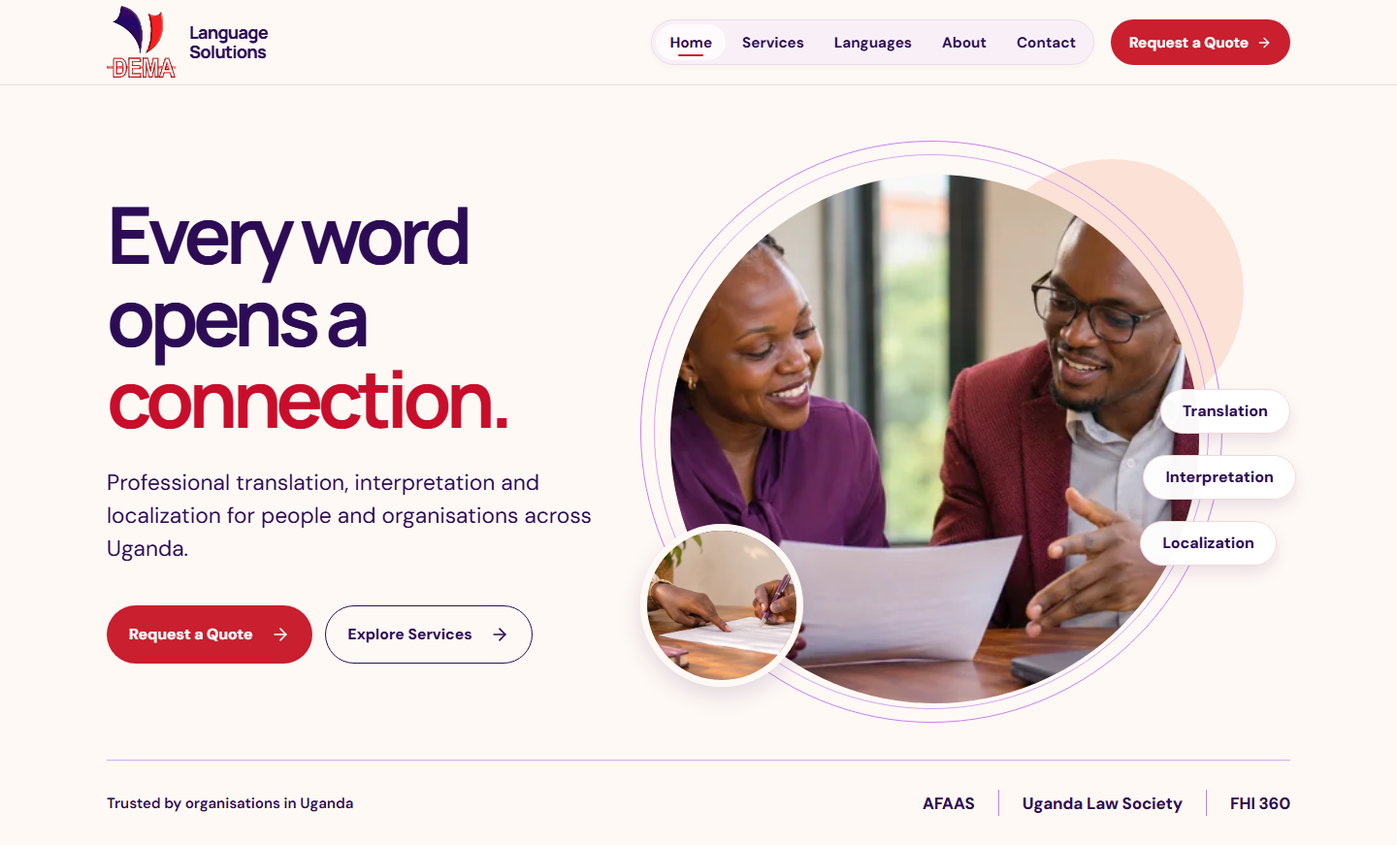
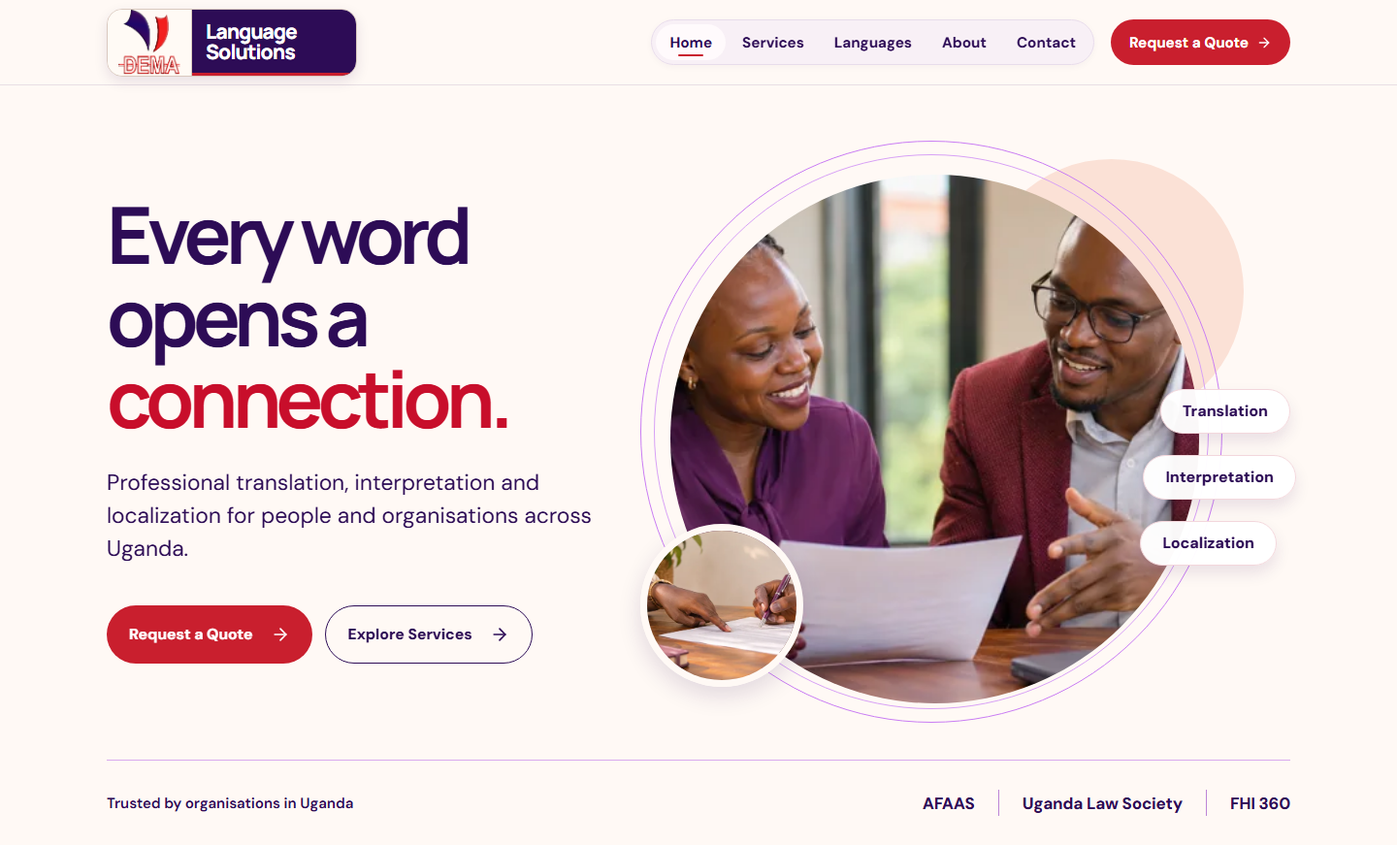
changes

Changed region(s): [[0.0625, 0.0, 0.2812, 0.093], [0.8125, 0.031, 0.875, 0.062]]

diff --git a/src/language-atlas.css b/src/language-atlas.css
@@ -1,0 +1,60 @@
+/* The selected atlas diptych replaces only the introduction above the directory. */
+.language-intro { margin-bottom: 42px; }
+.language-intro .section-intro { max-width: 1080px; margin-bottom: 23px; }
+.language-intro .section-intro h2 { max-width: 1050px; font-size: clamp(3rem, 5vw, 4.3rem); }
+.language-intro .section-intro p { max-width: 800px; font-size: 1.15rem; }
+.language-intro .text-link { min-height: 35px; }
+
+.language-diptych { display: grid; grid-template-columns: minmax(0, .9fr) minmax(0, 1.1fr); align-items: start; gap: 20px; min-width: 0; }
+.atlas-panel { display: grid; grid-template-rows: minmax(0, 1fr) auto; justify-items: center; min-width: 0; height: 520px; padding: 25px 30px 30px; border-radius: 34px; background: radial-gradient(circle at 72% 28%, #462071, var(--brand-violet) 63%); color: #fff; }
+.atlas-map { align-self: center; width: min(80%, 330px); height: 326px; object-fit: contain; filter: brightness(0) invert(1); opacity: .9; }
+.atlas-examples { width: 100%; min-width: 0; }
+.atlas-examples p { margin: 0 0 15px; color: #fff; font-size: .76rem; line-height: 1.35; font-weight: 800; text-transform: uppercase; letter-spacing: .09em; }
+.atlas-examples ul { display: grid; grid-template-columns: repeat(2, minmax(0, 1fr)); gap: 10px 14px; padding: 0; margin: 0; list-style: none; }
+.atlas-examples li { display: grid; place-items: center; min-width: 0; min-height: 43px; padding: 7px 10px; border-radius: 99px; background: linear-gradient(110deg, #f8d9d4, #f4c8c5); color: var(--brand-violet); font-weight: 800; font-size: .93rem; text-align: center; overflow-wrap: anywhere; }
+
+.atlas-photo { min-width: 0; margin: 0; }
+.atlas-photo img { display: block; width: 100%; height: 520px; object-fit: cover; object-position: center 60%; border-radius: 34px 112px 34px 34px; }
+.atlas-photo figcaption { display: flex; justify-content: space-between; align-items: baseline; flex-wrap: wrap; gap: 2px 16px; padding: 13px 2px 0; color: var(--brand-violet); font-size: .8rem; line-height: 1.4; }
+.atlas-photo figcaption strong { font-weight: 800; }
+.atlas-photo figcaption a { text-decoration: underline; text-underline-offset: 3px; }
+.atlas-photo figcaption a:hover, .atlas-photo figcaption a:focus-visible { color: var(--action-red); }
+.languages-section .directory { margin-top: 82px; }
+
+@media (max-width: 1050px) {
+  .atlas-panel { height: 470px; padding: 22px 24px 24px; }
+  .atlas-map { height: 285px; }
+  .atlas-photo img { height: 470px; }
+}
+@media (max-width: 780px) {
+  .language-intro { margin-bottom: 30px; }
+  .language-intro .section-intro h2 { font-size: clamp(2.55rem, 6vw, 3.4rem); }
+  .language-diptych { grid-template-columns: minmax(0, 1fr); gap: 22px; }
+  .atlas-panel { height: auto; min-height: 410px; padding: 22px 28px 28px; }
+  .atlas-map { width: min(68%, 310px); height: 275px; }
+  .atlas-photo img { height: clamp(290px, 50vw, 390px); border-radius: 28px 85px 28px 28px; }
+  .languages-section .directory { margin-top: 72px; }
+}
+@media (max-width: 550px) {
+  .language-intro { margin-bottom: 27px; }
+  .language-intro .section-intro { margin-bottom: 17px; }
+  .language-intro .section-intro h2 { font-size: clamp(2rem, 8.6vw, 3rem); }
+  .language-intro .section-intro p { font-size: .98rem; }
+  .language-diptych { gap: 17px; }
+  .atlas-panel { min-height: 0; padding: 19px 21px 22px; border-radius: 22px; }
+  .atlas-map { width: min(75%, 235px); height: 225px; margin-bottom: 8px; }
+  .atlas-examples p { font-size: .67rem; margin-bottom: 10px; }
+  .atlas-examples ul { gap: 8px; }
+  .atlas-examples li { min-height: 38px; font-size: .82rem; }
+  .atlas-photo img { height: clamp(210px, 57vw, 290px); border-radius: 22px 62px 22px 22px; }
+  .atlas-photo figcaption { font-size: .72rem; padding-top: 9px; }
+  .languages-section .directory { margin-top: 56px; }
+}
+@media (max-width: 360px) {
+  .atlas-panel { padding: 17px 16px 18px; }
+  .atlas-map { height: 190px; }
+  .atlas-examples li { min-height: 35px; font-size: .75rem; padding-inline: 5px; }
+  .atlas-photo img { height: 210px; }
+  .atlas-photo figcaption { font-size: .68rem; }
+  .languages-section .directory { margin-top: 48px; }
+}

diff --git a/src/App.tsx b/src/App.tsx
@@ -82,7 +82,26 @@ function ServiceFinder({ choice, setChoice }: { choice: Choice; setChoice: (choi
 }
 
 function LanguagesSection() {
-  return <section id="languages" className="section languages-section"><div className="container"><div className="split-grid"><div className="split-copy"><SectionIntro eyebrow="Language expertise" title="Rooted in Uganda. Connected through language." copy="Local language knowledge and cultural context help make communication more meaningful. Tell us who you need to reach and we’ll discuss the right approach." /><p className="examples-label">Examples of languages featured by Dema</p><div className="language-tags"><span>Luganda</span><span>Runyankore</span><span>Acholi</span><span>Lusoga</span></div><a className="text-link" href="#contact">Ask about your language <ArrowRight size={18} /></a></div><div className="language-visual"><figure className="language-photo"><Picture name="kampala" alt="Panoramic view across Kampala, Uganda" /><figcaption><span>Kampala, Uganda</span><span>Photo: <a href="https://commons.wikimedia.org/wiki/File:View_of_Kampala_city_1.jpg" target="_blank" rel="noopener noreferrer">Dr. S-mon</a> · <a href="https://creativecommons.org/licenses/by/4.0/" target="_blank" rel="noopener noreferrer">CC BY 4.0</a></span></figcaption></figure><div className="uganda-map"><img src="/assets/uganda-outline.svg" alt="Outline map of Uganda" width="320" height="360" /><span>Rooted in Uganda</span></div></div></div><LanguageDirectory /></div></section>
+  return <section id="languages" className="section languages-section"><div className="container">
+    <div className="language-intro">
+      <SectionIntro eyebrow="Language expertise" title="Rooted in Uganda. Connected through language." copy="Local language knowledge and cultural context help make communication more meaningful. Tell us who you need to reach and we’ll discuss the right approach." />
+      <a className="text-link" href="#contact">Ask about your language <ArrowRight size={18} /></a>
+    </div>
+    <div className="language-diptych">
+      <div className="atlas-panel">
+        <img className="atlas-map" src="/assets/uganda-outline.svg" alt="Geographic silhouette of Uganda" width="320" height="360" loading="lazy" />
+        <div className="atlas-examples">
+          <p>Examples of languages featured by Dema</p>
+          <ul>{['Luganda', 'Runyankore', 'Acholi', 'Lusoga'].map(language => <li key={language}>{language}</li>)}</ul>
+        </div>
+      </div>
+      <figure className="atlas-photo">
+        <Picture name="kampala" alt="Panoramic view across Kampala, Uganda" />
+        <figcaption><strong>Kampala, Uganda</strong><span>Photo: <a href="https://commons.wikimedia.org/wiki/File:View_of_Kampala_city_1.jpg" target="_blank" rel="noopener noreferrer">Dr. S-mon</a> · <a href="https://creativecommons.org/licenses/by/4.0/" target="_blank" rel="noopener noreferrer">CC BY 4.0</a></span></figcaption>
+      </figure>
+    </div>
+    <LanguageDirectory />
+  </div></section>
 }
 
 function Approach() {

diff --git a/src/header-contrast-tab.css b/src/header-contrast-tab.css
@@ -1,0 +1,88 @@
+/* The contrast tab belongs to the header brand only. Footer Brand stays plain. */
+.site-header .brand-header {
+  display: inline-flex;
+  align-items: stretch;
+  flex: none;
+  gap: 0;
+  width: 258px;
+  height: 70px;
+  border: 1px solid #d9c9bf;
+  border-radius: 16px;
+  background: #fffaf5;
+  box-shadow: 0 3px 10px #2d0c560b;
+  overflow: hidden;
+  white-space: nowrap;
+  transition: box-shadow .18s ease;
+}
+.site-header .brand-header:hover { box-shadow: 0 5px 14px #2d0c561c; }
+.site-header .brand-header:focus-visible { outline: 3px solid #ec6c5b; outline-offset: 3px; }
+.site-header .brand-mark {
+  display: grid;
+  place-items: center;
+  flex: none;
+  width: 87px;
+  min-width: 0;
+  height: 100%;
+  background: #fffaf5;
+  border-right: 1px solid #d9c9bf;
+}
+.site-header .brand-mark img {
+  display: block;
+  width: 78px;
+  height: 67px;
+  max-width: none;
+  object-fit: contain;
+}
+.site-header .brand-wordmark {
+  display: block;
+  position: relative;
+  flex: 1;
+  min-width: 0;
+  height: 100%;
+  padding: 12px 14px 10px;
+  border-radius: 0 14px 14px 0;
+  background: var(--brand-violet);
+  color: #fff;
+  font-family: Manrope, 'DM Sans', sans-serif;
+  font-size: 1.31rem;
+  font-weight: 800;
+  line-height: 1.04;
+  letter-spacing: -.045em;
+}
+.site-header .brand-wordmark::after {
+  content: '';
+  position: absolute;
+  left: 0;
+  right: 0;
+  bottom: 0;
+  height: 3px;
+  background: var(--action-red);
+}
+@media (max-width: 1100px) {
+  .site-header .brand-header { width: 244px; height: 68px; }
+  .site-header .brand-mark { width: 82px; }
+  .site-header .brand-mark img { width: 73px; height: 65px; }
+  .site-header .brand-wordmark { font-size: 1.24rem; padding: 12px 12px 9px; }
+}
+@media (max-width: 780px) {
+  .site-header .brand-header { width: 198px; height: 59px; border-radius: 13px; }
+  .site-header .brand-mark { width: 72px; }
+  .site-header .brand-mark img { width: 65px; height: 57px; }
+  .site-header .brand-wordmark { padding: 11px 10px 8px; border-radius: 0 11px 11px 0; font-size: 1rem; line-height: 1.04; }
+  .site-header .brand-wordmark::after { height: 2px; }
+}
+@media (max-width: 360px) {
+  .site-header .brand-header { width: 181px; height: 56px; }
+  .site-header .brand-mark { width: 67px; }
+  .site-header .brand-mark img { width: 60px; height: 54px; }
+  .site-header .brand-wordmark { padding: 11px 8px 7px; font-size: .91rem; }
+}
+@media (max-width: 300px) {
+  .site-header .brand-header { width: 169px; height: 54px; }
+  .site-header .brand-mark { width: 62px; }
+  .site-header .brand-mark img { width: 56px; height: 52px; }
+  .site-header .brand-wordmark { padding: 10px 7px 7px; font-size: .86rem; }
+}
+@media (prefers-reduced-motion: reduce) {
+  .site-header .brand-header { transition: none; }
+}

diff --git a/src/main.tsx b/src/main.tsx
@@ -13,6 +13,8 @@ import './polish.css'
 import './conversation-lens.css'
 import './services-photo-led.css'
 import './finder-decision-path.css'
+import './header-contrast-tab.css'
+import './language-atlas.css'
 
 ReactDOM.createRoot(document.getElementById('root')!).render(
   <React.StrictMode><App /></React.StrictMode>,

diff --git a/AGENTS.md b/AGENTS.md
@@ -24,8 +24,10 @@ The agent has access to the following local references. **Use the images for com
 
 1. **Active hero direction:** `plan/hero-iteration/options/02-conversation-lens.png` is the selected desktop/mobile hero design. The supplied `images/logo.png` and existing site photos are authoritative assets; the generated logo and people inside the mockup are visual placeholders. `plan/brand-hero-violet-red.png` remains a secondary palette reference.
 2. **Active service finder direction:** `plan/finder-iteration/options/03-decision-path.png` is the selected desktop/mobile design for `#find-service`. It supersedes the earlier `plan/section-concepts/03-service-finder.png` composition. Recreate its choices, result panel, and graphic accents as real React/CSS; do not paste the mockup into the page.
-3. **Active header logo-area direction:** `plan/logo-iteration/options/03-contrast-tab.png` is the selected desktop/mobile brand lockup. Follow section 15. The actual `images/logo.png` is authoritative; any logo rendition inside the generated mockup is illustrative only.
-4. **Layout and section composition:** the eight images in `plan/section-concepts/`, in numeric order. Each shows desktop on the left and mobile on the right:
+3. **Active header logo-area direction:** the logo treatment shown in `plan/directory-iteration/options/02-editorial-cards.png` replaces the earlier `plan/logo-iteration/options/03-contrast-tab.png`. Follow section 17. The actual `images/logo.png` is authoritative; any logo rendition inside the generated mockup is illustrative only.
+4. **Active Language expertise direction:** `plan/language-iteration/options/02-atlas-diptych.png` is the selected desktop/mobile layout for the introductory part of `#languages`. Follow section 16. It supersedes the earlier `plan/section-concepts/04-languages.png` composition for that part of the section.
+5. **Active searchable directory direction:** `plan/directory-iteration/options/02-editorial-cards.png` is the selected desktop/mobile layout for `#language-directory`. Follow section 17. It supersedes `plan/section-concepts/04b-language-directory.png` for composition while preserving the existing data and behavior.
+6. **Layout and section composition:** the eight images in `plan/section-concepts/`, in numeric order. Each shows desktop on the left and mobile on the right:
    - `01-hero.png`
    - `02-services.png`
    - `03-service-finder.png`
@@ -35,8 +37,8 @@ The agent has access to the following local references. **Use the images for com
    - `07-clients.png`
    - `08-contact-footer-v2.png` (use this corrected version)
    - `04b-language-directory.png` is an additional reference for the new searchable district–language directory within section 04. It uses the correct violet/red palette and shows the required desktop/mobile search layout.
-5. **Real brand and team assets:** `images/logo.png` and the three supplied photos listed below. These override any invented logos, faces, names, or contact details visible in generated mockups.
-6. **Generated supporting photography:** `images/generated/`. These are illustrative models/scenes and must never be presented as Dema staff or a documentary record of Dema projects.
+7. **Real brand and team assets:** `images/logo.png` and the three supplied photos listed below. These override any invented logos, faces, names, or contact details visible in generated mockups.
+8. **Generated supporting photography:** `images/generated/`. These are illustrative models/scenes and must never be presented as Dema staff or a documentary record of Dema projects.
 
 The older green/yellow section images specify layout, spacing, typography scale, and responsive composition. **Do not carry their green/yellow palette into the build.** Use the violet/red logo based palette below throughout all sections. Treat the references as visual targets: match their major proportions, image placement, section density, card size, type hierarchy, colour blocking, and desktop/mobile composition. Reuse the ideas as real responsive components, with changes only for factual accuracy, accessibility, and the supplied assets. Merely repeating the section order and text does not satisfy the brief.
 
@@ -86,7 +88,7 @@ Build in this order. The quoted copy is the working content; adjust minor wordin
 
 ### 01 — Header and hero (`#top`)
 
-- Header: supplied logo plus “Language Solutions” live text if needed; anchors Home, Services, Languages, About, Contact. On mobile use a compact accessible menu. Use a subtle sticky header only if it does not cover anchored headings. Sections 12 and 15 give the approved navbar and logo-area directions; section 15 controls the header brand lockup.
+- Header: supplied logo plus “Language Solutions” live text if needed; anchors Home, Services, Languages, About, Contact. On mobile use a compact accessible menu. Use a subtle sticky header only if it does not cover anchored headings. Section 17 controls the header brand lockup and bottom-edge treatment; preserve the other approved navbar behavior.
 - H1: **Every word opens a connection.**
 - Subcopy: **Professional translation, interpretation and localization for people and organisations across Uganda.**
 - Primary action: **Request a Quote** → `#contact`.
@@ -112,9 +114,9 @@ Build in this order. The quoted copy is the working content; adjust minor wordin
 
 - Heading **Rooted in Uganda. Connected through language.**
 - Explain Dema's local language knowledge in one short paragraph. Display example language names from its current site, such as Luganda, Runyankore, Acholi, and Lusoga. Phrase these as examples, not an exhaustive coverage claim.
-- Restore the **Kampala city photograph and Uganda map silhouette** from the composition in `plan/section-concepts/04-languages.png`, translated into the current violet/red palette. These are required visual anchors for this section, not optional decorations. Use a genuine, appropriately licensed Kampala photograph so the city depiction is accurate; if its source or licence is unclear, confirm it before production use. Build the Uganda outline from a reliable map source as a code native SVG or equivalent, with accurate proportions. Do not add decorative pins, district boundaries, or language-to-district placements that imply unverified coverage. `interpretation-meeting.png` may be used as secondary context if it improves the composition, but it does not replace the city photograph or map. Keep the photo and map legible on mobile without causing horizontal overflow.
+- Use the approved **Atlas diptych** composition in `plan/language-iteration/options/02-atlas-diptych.png` for the introductory visual: a deep violet Uganda map panel paired with a genuine Kampala photograph on desktop, stacked on mobile. The real `images/kampala-city-source.jpg` / optimized WebP variants and `public/assets/uganda-outline.svg` are authoritative; the generated photo and map inside the concept board are visual placeholders. Keep the visible Kampala photo attribution and licence link. Do not add decorative pins, district boundaries, or language-to-district placements that imply unverified coverage. Keep the photo and map legible on mobile without horizontal overflow. Section 16 gives precise requirements.
 - **Ask about your language** links to contact.
-- Add a searchable directory **within this homepage section** using `data/dema-district-languages.json`, with `plan/section-concepts/04b-language-directory.png` as the visual target. The data file transcribes all 93 numbered district/place entries and their 42 distinct language labels from Dema's current homepage. Do not reduce the directory to the four example chips above.
+- Add a searchable directory **within this homepage section** using `data/dema-district-languages.json`, with the selected `plan/directory-iteration/options/02-editorial-cards.png` as the visual target. The data file transcribes all 93 numbered district/place entries and their 42 distinct language labels from Dema's current homepage. Do not reduce the directory to the four example chips above. Section 17 governs the directory layout.
 - Search must work in both directions: a district/place query reveals its languages, and a language query reveals every matching district/place in the dataset. Provide visible controls for All, Districts / places, and Languages; show a result count, a clear-query control, an empty state, and an accessible way to browse **every** record (for example progressive “Show more” rows). Do not silently cap results.
 - Matching should be case-insensitive and accent/punctuation tolerant so queries such as `Pokot`, `Pökoot`, `Ma'di`, and `Ngakarimojong` can find the published spellings. Preserve the published display spelling in results. Build the reverse language-to-places index from the dataset rather than maintaining a second inconsistent list.
 - Use the neutral label **district / place** because the source list contains place labels that are not current administrative districts. A short note should say the directory is based on Dema's published list and visitors can contact Dema to confirm local requirements. Do not describe it as a complete official Uganda district register or as proof of service availability in every listed place.
@@ -172,7 +174,7 @@ The initial implementation has QA captures in `qa/home-1440.png`, `qa/home-1024.
 2. **Mobile hero:** Follow the desktop/mobile pairing in `plan/hero-iteration/options/02-conversation-lens.png` and the acceptance criteria in section 12.
 3. **Services:** Historical review of the initial generic card layout. The selected photo-led direction in section 13 now controls this section.
 4. **Service finder:** Historical review of the initial icon-card selector. The selected decision-path direction in section 14 now controls this section. Keep the working selector and readable type.
-5. **Language and approach:** The current language section is mostly text plus a circular crop. Match the more deliberate text/image balance in `04-languages.png` without inventing geographic data. The current approach is a plain vertical list even on desktop; `05-process.png` shows a connected horizontal three-step story on desktop and a vertical path on mobile.
+5. **Language and approach:** The earlier language visual review is historical; the approved Atlas diptych in section 16 now controls the Language expertise introduction. The current approach is a plain vertical list even on desktop; `05-process.png` shows a connected horizontal three-step story on desktop and a vertical path on mobile.
 6. **Team, clients, and CTA:** Retain the real portraits and client names. Compare card proportions and breathing room with `06-team.png` and `07-clients.png`. Give the closing contact band the stronger organic shape and prominent red quote action shown by the logo-based palette and `08-contact-footer-v2.png` structure.
 
 Do not copy the mockups pixel for pixel when that would harm accessibility or use false imagery. Do close the above visual gaps and document any necessary deviations with the final screenshots.
@@ -199,8 +201,8 @@ The user selected `plan/hero-iteration/options/02-conversation-lens.png` and has
 
 ### Navbar design
 
-- Preserve the real logo at a comfortable size, with Home, Services, Languages, About, Contact anchors and a red quote action on desktop. Give the navigation links a very soft lilac rounded track or similarly restrained surface, with a thin border and subtle depth. Keep generous spacing and an obvious active/hover/focus treatment using a short red indicator. Section 15 supersedes the previous plain logo-area styling; keep the rest of the navbar intact.
-- Keep the header sticky with a cream translucent surface, fine divider, and light shadow only after scrolling. A gentle blur is acceptable where supported; the header must remain readable without `backdrop-filter`.
+- Preserve the real logo at a comfortable size, with Home, Services, Languages, About, Contact anchors and a red quote action on desktop. Give the navigation links a very soft lilac rounded track or similarly restrained surface, with a thin border and subtle depth. Keep generous spacing and an obvious active/hover/focus treatment using a short red indicator. Section 17 controls the header brand lockup; keep the rest of the navbar intact.
+- Keep the header sticky with a cream translucent surface that blends into the page. Remove its bottom divider. Add only a soft shadow after scrolling. Keep its height stable while scrolling in either direction; do not shrink it. A gentle blur is acceptable where supported; the header must remain readable without `backdrop-filter`.
 - On mobile, keep the logo and menu button balanced. Give the menu button a soft lilac surface and visible focus state. The opened menu should read as a deliberate panel with clear link spacing, not a flat list; preserve Escape and link-selection closing behaviour.
 
 ### Recommended motion
@@ -224,7 +226,7 @@ The user approved `plan/services-iteration/options/02-photo-led.png` for the Ser
 
 Rebuild Option 02 with real responsive React/CSS, not a pasted mockup. Use `images/generated/services-consultation.png` (or its optimized WebP variants) as the Services photo. It shows illustrative models, not Dema staff. Preserve the six factual service names and functional service actions. Desktop places the photo beside a compact vertical service list; mobile places a shallow photo above one full-width column of rows. Do not bring the generic icon cards back.
 
-The photo-led Services layout and Kampala/map visual are implemented in `src/App.tsx` and `src/services-photo-led.css`. The Kampala credit and CC BY 4.0 licence link sit below the photo, clear of the map. The asset preparation and source details remain in `plan/services-iteration/ASSETS.md`.
+The photo-led Services layout is implemented in `src/App.tsx` and `src/services-photo-led.css`. The current Kampala/map composition is the Atlas diptych in `src/App.tsx` and `src/language-atlas.css`; its photo credit and CC BY 4.0 licence link sit below the photograph. The asset preparation and source details remain in `plan/services-iteration/ASSETS.md`.
 
 The former clipped mobile capture at `plan/services-iteration/current-mobile-overflow.png` is historical. Its root cause was a `body` minimum width of 320 px when the browser preview was narrower. That constraint has been removed. The page now has additional narrow-screen rules for the service finder heading, team cards, and contact actions. Verify no horizontal overflow at 1440, 1024, 768, 390, 320, and 280 px, including after opening the mobile menu and interacting with the service finder and directory. Fix oversized elements directly; never add page-level `overflow-x: hidden`. Current QA captures are in `qa/`.
 
@@ -240,13 +242,50 @@ The user selected `plan/finder-iteration/options/03-decision-path.png`. It has b
 - Do not change the accepted hero, photo-led Services section, Kampala/map visual, or searchable district/language directory while implementing this finder iteration, except where a shared overflow fix is necessary.
 - Capture section screenshots with all four choices and the entire result panel visible at 1440, 1024, 768, 390, 320, and 280 px. Capture full-page QA screenshots after the final code change and provide clickable paths. Run the build and interaction/overflow checks; fix screenshot-visible clipping, overlap, and small text before reporting completion.
 
-## 15. Approved header logo area — contrast tab
+## 15. Superseded header logo area — contrast tab
+
+Historical reference only. The user later selected the more open logo treatment in `plan/directory-iteration/options/02-editorial-cards.png`. Section 17 replaces every implementation instruction in this section, including the cream tile border and red baseline.
 
 The user selected `plan/logo-iteration/options/03-contrast-tab.png` for the **header brand area only**. The board shows close-up desktop and mobile concepts; interpret its proportions within the actual sticky header. The real `images/logo.png` must be used unchanged. The generated logo rendition inside the board is never a replacement asset. `plan/logo-iteration/agent-brief.md` contains the detailed handoff.
 
 - Build a compact horizontal two-part lockup: a warm cream/off-white tile for the original logo on the left, connected to a deep violet panel on the right with white, live two-line **Language** / **Solutions** text. Add a thin red baseline beneath the violet panel, as in the reference. Use restrained corner rounding, a fine edge, and minimal shadow. Keep the mark's red **DEMA** lettering visible; do not add a second live “DEMA” word.
-- Scope the treatment to the **header**. `Brand` is currently shared by header and footer; do not inadvertently turn the footer brand into the dark tab. Use a header variant or header-scoped styling while preserving the footer's working logo and link.
+- Scope the treatment to the **header**. `Brand` now uses a header variant in `src/App.tsx`, styled in `src/header-contrast-tab.css`; preserve the footer's original brand treatment and working link.
 - Fit the actual navbar rather than expanding it around the mockup. Aim for a brand group around 250–280 px wide and 66–74 px high on spacious desktop, with a compact mobile version around 170–205 px wide and 54–60 px high. Adjust at 1024, 768, 390, 320, and 280 px so the menu toggle, nav links, quote button, and sticky header have space. Do not clip or distort the logo or wordmark, shrink the logo so far that “DEMA” disappears, or trigger horizontal overflow.
 - Keep the whole lockup as the existing `#top` home link, with a meaningful accessible name and visible keyboard focus. The white wordmark on deep violet must remain legible. Treat the red baseline as decorative; any hover feedback should be subtle and respect reduced motion.
 - Preserve the approved hero, navigation track, quote action, mobile menu behaviour, service finder, Services, language directory, and all other sections. This decision does not authorize a whole-navbar redesign.
 - Capture close-up header screenshots at 1440, 1024, 768, 390, 320, and 280 px, both initial and where useful after scroll/mobile menu open. Capture full-page QA screenshots after final changes, check for overflow at every width, run build and browser interaction checks, inspect the screenshots, and include clickable paths in the handoff. Do not deploy.
+
+## 16. Approved Language expertise introduction — Atlas diptych
+
+The user selected `plan/language-iteration/options/02-atlas-diptych.png` for the visual introduction in `#languages`. It is implemented in `src/App.tsx` and `src/language-atlas.css` above the searchable directory. The other boards in `plan/language-iteration/options/` are exploration only; section 17 controls the directory layout. Detailed introduction requirements are in `plan/language-iteration/agent-brief.md`.
+
+- Preserve the existing section heading, short factual paragraph, **Ask about your language** action to `#contact`, and four example names: Luganda, Runyankore, Acholi, Lusoga. Label them as examples from Dema, never as a complete coverage list. Give the text clear space above the visual pair, with the red action visible before or near the panels.
+- Desktop: create two substantial side-by-side panels of comparable visual weight beneath the introduction. The left deep-violet atlas panel contains the accurate pale lilac/peach Uganda silhouette and the four example language labels grouped at its base. The labels are a separate list, **not pins or positions on the map**. The right panel shows the genuine Kampala photograph with a restrained rounded crop. Keep the city scene visible rather than filling the panel mostly with sky.
+- Mobile: stack the map panel above the city photograph in one column. Keep the map recognisable and the four names readable at 390, 320, and 280 px. Keep the photo caption and credit below the photograph; do not overlay them with the map or crop them away. Maintain an efficient vertical rhythm before the directory begins.
+- Use `public/assets/uganda-outline.svg` and `images/kampala-city-source.jpg` or `public/assets/kampala-{720,1440}.webp`. The concept board's rendered map/photo are not final assets. The Kampala photo is by Dr. S-mon, [Wikimedia Commons](https://commons.wikimedia.org/wiki/File:View_of_Kampala_city_1.jpg), CC BY 4.0. Preserve visible attribution and a working source/licence link. Use useful alt text for the photo and map. No unverified district/language markers, coverage claims, or invented location information.
+- Preserve the entire `LanguageDirectory` and its 93 published district/place records, 42 distinct language labels, reverse search, filters, count, clear action, empty state, and all specified spot checks. Do not treat the example labels in the atlas panel as a filter or substitute for the directory unless a fully accessible, correct interaction is explicitly implemented.
+- Scope implementation to this Language expertise introduction and directly necessary shared overflow fixes. Preserve the approved hero, logo-area direction, photo-led Services, service finder direction, other sections, and all working anchors. Subtle one-time reveal is acceptable, but keep the section understandable with reduced motion.
+- Run build and browser QA. Capture section screenshots at 1440, 1024, 768, 390, 320, and 280 px showing the full intro, both panels, credit, and the start of the directory; capture updated full-page screenshots at those widths. Inspect and fix any clipped map, text, photo credit, or horizontal overflow before handoff. Include clickable screenshot paths. Do not deploy.
+
+## 17. Approved directory and header refinement — editorial cards
+
+The user selected `plan/directory-iteration/options/02-editorial-cards.png` for the searchable directory in `#languages` and its open header logo treatment. `plan/directory-iteration/agent-brief.md` is the focused implementation handoff. The two other boards in that folder are rejected alternatives. The selected board supersedes `plan/section-concepts/04b-language-directory.png` for directory composition and section 15 for the header brand appearance. Use the board as a desktop/mobile layout target, not as a pasted image.
+
+### Directory presentation
+
+- Keep the current heading, accurate explanatory copy, search, All / Districts / places / Languages filters, clear-query action, result count, empty state, progressive Show more control, and published-source note. Preserve the 93 district/place records, all 42 distinct language labels, the reverse language-to-place index, and punctuation/accent-tolerant two-way search. Do not hardcode the three sample cards from the mockup as the complete directory.
+- Use a warm cream section, generous heading space, a large white rounded search field, restrained lilac filter pills with the selected pill in accessible red, and a pale lilac result-count band. On desktop, show a three-column grid of editorial cards with fine violet borders, small red sequence numbers, large place names, a readable language line, and a restrained red bottom rule. On mobile, use one full-width card per row. Numbers must derive from the displayed data order and must not imply an official district ranking.
+- For the Languages filter, apply the same card language to each distinct language: make the language name the title and list **all** matching published district/place names. Wrap long names and lists without clipping, and keep each card's meaning clear to a screen reader. Result counts and Show more must reflect the selected filter and active query; never silently cap results. Keep controls keyboard accessible with visible focus and adequate touch targets.
+- Check `Jinja` → Lusoga, `Gulu` → Acholi, `Mbarara` → Runyankore, `Lusoga` → all matching places, `Pokot` → Nakapiripirit, and clear-query restoration. Ensure all 93 places and 42 language labels remain discoverable. Keep the neutral term “district / place” and the note that visitors should confirm local requirements with Dema.
+
+### Header brand and scrolling
+
+- Apply the open lockup from the selected directory board to the **header only**: actual unchanged `images/logo.png` on the cream header surface, directly joined to a compact deep-violet rounded panel with live white two-line **Language** / **Solutions** text. The logo already contains “DEMA”; do not duplicate it. Remove the old outlined/raised cream logo tile and the red baseline under the violet wordmark. Keep the footer brand unchanged.
+- Remove the line/border below the header so it blends into the warm page surface. Retain the existing sticky header, navigation track, active/focus states, quote action, and mobile menu. Keep header height stable when scrolling both down and up; do not shrink it. A subtle soft shadow after scrolling may create separation. Do not remove the top brand accent unless it prevents matching the selected composition.
+- Keep the brand as a working `#top` link with a meaningful accessible name and visible focus. Fit it beside desktop navigation and the mobile menu at 1440, 1024, 768, 390, 320, and 280 px. Keep the red “DEMA” mark and white wordmark legible without distortion or horizontal overflow.
+
+### Acceptance
+
+- Scope changes to the directory, header brand, and directly necessary shared layout fixes. Preserve the accepted hero, photo-led Services, decision-path finder, Atlas diptych and Kampala credit, other sections, all section anchors, and existing data behavior.
+- Run the build and `node qa/check.mjs`; retain its viewport overflow and directory interaction checks. Verify search, filters, clear, Show more, empty state, menu open/close, scroll header, and keyboard focus. Check `document.documentElement.scrollWidth <= window.innerWidth` at 1440, 1024, 768, 390, 320, and 280 px without hiding page overflow.
+- After the final code change, capture and inspect directory screenshots, header close-ups, and full-page QA screenshots at those widths. Fix visible clipping, weak contrast, misalignment, or overflow, then recapture. Include clickable screenshot paths and any deliberate differences from the board in the implementation handoff. Do not deploy.

diff --git a/plan/directory-iteration/agent-brief.md b/plan/directory-iteration/agent-brief.md
@@ -1,0 +1,22 @@
+# Builder handoff — editorial directory and header brand
+
+Read `AGENTS.md`, especially sections 4, 7, 8, 12, and 17. The user selected `plan/directory-iteration/options/02-editorial-cards.png` for the searchable directory and the header logo area shown on that board. The board is a composition reference; rebuild it as accessible React and CSS. Do not paste the mockup into the page. The other directory boards are rejected alternatives.
+
+## Work to implement
+
+1. Restyle the existing `LanguageDirectory` in `src/LanguageDirectory.tsx` and its styles to match the board: warm cream section, clear large heading, wide white rounded search input, lilac filter pills with a red selected state, lilac result count strip, and three-column editorial cards on desktop. Each place card has a small red data-derived sequence number, prominent district/place name, readable language line, fine violet border, and short red bottom rule. On mobile, show one full-width card per row. Keep spacing, proportions, type hierarchy, and card density close to the reference.
+2. Preserve all current directory behavior and source data in `data/dema-district-languages.json`: 93 district/place entries, 42 distinct language labels, district-to-language and language-to-place lookup, case/accent/punctuation-tolerant search, All / Districts / places / Languages filters, accurate result count, clear-query action, empty state, progressive Show more, and source/confirmation note. Do not hardcode the three sample cards as the list. Language-filter cards should use the same visual system, title each card with its language, and expose every matching published place. Long names and lists must wrap. Keep buttons and results accessible by keyboard and screen reader.
+3. Refine only the **header brand** to match the logo treatment on the selected board: use the original unchanged `images/logo.png` on the cream header surface and an attached deep-violet rounded wordmark panel with live white two-line “Language” / “Solutions” text. Remove the outlined/raised cream logo tile and red baseline of the previous contrast-tab design. Do not add a second “DEMA” word. Keep the complete lockup linked to `#top`, with a visible focus state. Leave the footer brand unchanged.
+4. Remove the header bottom divider/border so it blends into the cream page. Retain the sticky behavior, navigation track, active/focus states, quote action, and mobile menu. Keep the header height stable while scrolling up or down. A soft shadow after scrolling is enough for separation; avoid a shrinking header, which reduces logo legibility and creates layout movement.
+5. Preserve the accepted hero, Services photo layout, finder, Uganda atlas and Kampala photo credit, remaining sections, anchors, and current factual content. Make only directly necessary shared layout fixes.
+
+## Acceptance checks
+
+- Directory spot checks: `Jinja` → Lusoga; `Gulu` → Acholi; `Mbarara` → Runyankore; `Lusoga` → every matching published place; `Pokot` → Nakapiripirit; clearing a query restores browse results. Confirm all 93 place records and all 42 distinct language labels remain reachable through the UI.
+- Check All, Districts / places, and Languages modes, count changes, Show more progression, empty state, mobile menu, header after scrolling, visible keyboard focus, and working links. Preserve the viewport checks in `qa/check.mjs` and add or retain the relevant directory checks.
+- Build and run `node qa/check.mjs`. At 1440, 1024, 768, 390, 320, and 280 px, verify `document.documentElement.scrollWidth <= window.innerWidth`. Fix actual oversized elements instead of hiding page overflow.
+- Capture fresh directory-section screenshots, header close-ups, and full-page QA screenshots at those six widths **after the final code change**. Inspect each against `02-editorial-cards.png`, fix clipping or visual drift, and recapture. Include clickable paths to the final screenshots in the handoff. Note any deliberate differences. Do not deploy.
+
+## Copy-paste prompt
+
+Read `AGENTS.md` and `plan/directory-iteration/agent-brief.md`, then implement the selected `plan/directory-iteration/options/02-editorial-cards.png` direction for the searchable language directory and header logo area. Rebuild the directory with the board’s cream background, rounded search, filter pills, result band, and editorial cards (three columns desktop, one mobile), while preserving every existing record and all search/filter/Show more behavior. For Languages mode, show each language with every matching published district/place. Apply the board’s open logo lockup to the header using the unchanged real `images/logo.png`; remove the old logo tile border/red baseline and the header bottom divider, but retain the footer brand, navigation, sticky behavior, menu, and quote action. Keep the header height stable and use only a subtle shadow once scrolled. Preserve all other approved sections. Run the build and browser QA, check directory cases and no horizontal overflow at 1440, 1024, 768, 390, 320, and 280 px. Capture and inspect final directory, header, and full-page screenshots at all six widths; provide clickable screenshot paths. Do not deploy.

diff --git a/plan/language-iteration/agent-brief.md b/plan/language-iteration/agent-brief.md
@@ -1,0 +1,24 @@
+# Agent handoff — approved Atlas diptych
+
+## Read first
+
+Read `AGENTS.md`, especially sections 04, 07–08, and 16. The selected desktop/mobile visual is `plan/language-iteration/options/02-atlas-diptych.png`. The current before captures are `plan/language-iteration/current-desktop.png`, `current-mobile-top.png`, and `current-mobile-bottom.png`. This generated board is a layout reference; use the supplied real assets in the site. The planning agent has not edited site code for this selection.
+
+## Scope and composition
+
+1. Change only the introductory part of `#languages` above `LanguageDirectory`. Keep the heading “Rooted in Uganda. Connected through language.”, current short factual paragraph, `#contact` action “Ask about your language”, and four language examples. Improve hierarchy and spacing so the introduction flows into the visual pair.
+2. Desktop: two panels side by side beneath the introduction. Left: deep violet atlas surface with the accurate Uganda silhouette in a pale lilac/peach fill and four example language names grouped as distinct labels at the base. Right: genuine Kampala photograph in a large rounded crop. Balance panel height and width; keep the photograph's city content visible and avoid a sky-heavy crop. The red contact action belongs near the introduction, not buried below both panels.
+3. Mobile: a single column with the atlas panel followed by the Kampala photograph. The example labels must remain legible and must not appear at geographic positions. Show “Kampala, Uganda” and the photo credit/link clearly below the image. Avoid excessive blank space before the searchable directory.
+4. Use `public/assets/uganda-outline.svg`, `images/kampala-city-source.jpg`, and/or `public/assets/kampala-720.webp` / `kampala-1440.webp`. Preserve the original Kampala photo source and visible credit: Dr. S-mon, [Wikimedia Commons](https://commons.wikimedia.org/wiki/File:View_of_Kampala_city_1.jpg), [CC BY 4.0](https://creativecommons.org/licenses/by/4.0/). The mockup's map and photo are illustrative, not authority. Do not add pins, district borders, asserted language locations, or coverage claims.
+5. Keep the directory's 93 places, 42 language labels, two-way search, filters, counts, clear control, empty state, and source note exactly functional. Do not introduce a second manually curated data list. Preserve all other approved homepage sections and working anchors.
+
+## Interaction and QA
+
+- The map can be a static graphic with a descriptive alt/accessible label. It does not need interaction. Treat decorative shape layers as hidden from assistive technology. Keep sufficient contrast for pale map and example labels on violet.
+- If adding a reveal, use one short fade/translate; no looping motion. Honor `prefers-reduced-motion`.
+- At 1440, 1024, 768, 390, 320, and 280 px, confirm no horizontal overflow, clipped silhouette, photo, credit, language labels, or contact action. Check scroll width before and after directory search/expansion and mobile menu interactions.
+- Run `npm run build` and the browser QA. Capture final Language introduction screenshots showing both panels and the start of the directory, plus full-page screenshots, at all six widths. Inspect and correct the screenshots before reporting completion. Include clickable screenshot paths, changed files, test result, and any deliberate reference deviation. Do not deploy.
+
+## Copy-paste prompt for the builder agent
+
+> Read `AGENTS.md` and `plan/language-iteration/agent-brief.md`. Implement the selected `plan/language-iteration/options/02-atlas-diptych.png` direction for the Language expertise introduction above the existing directory. Build a deep-violet Uganda atlas panel beside the real Kampala photograph on desktop, stacking map then photo on mobile. Use `public/assets/uganda-outline.svg` and the supplied Kampala WebP/source image; keep visible Dr. S-mon / CC BY 4.0 attribution. Show Luganda, Runyankore, Acholi, and Lusoga as examples grouped beneath the map, not as geographic pins. Preserve the heading, copy, `#contact` action, all 93 district/place entries, 42 language labels, and working directory search. Keep other approved sections unchanged. Test 1440, 1024, 768, 390, 320, and 280 px, fix horizontal overflow, run build and browser QA, inspect and provide Language-section and full-page QA screenshots at those widths, and do not deploy.

diff --git a/plan/logo-iteration/agent-brief.md b/plan/logo-iteration/agent-brief.md
@@ -1,4 +1,6 @@
-# Agent handoff — approved contrast-tab logo area
+# Historical agent handoff — superseded contrast-tab logo area
+
+This brief is retained for design history. The current header direction comes from `plan/directory-iteration/options/02-editorial-cards.png` and is specified in `AGENTS.md` section 17 and `plan/directory-iteration/agent-brief.md`. Do not restore the outlined cream tile, red baseline, or header bottom divider described below.
 
 Read `AGENTS.md`, especially sections 01, 04, 07–08, 12, and 15. The user selected `plan/logo-iteration/options/03-contrast-tab.png`. Current header close-ups are `plan/logo-iteration/current-desktop.png` and `current-mobile.png`. This brief is for implementing the **header brand lockup only**. The planning agent has not changed site code for this decision.
 
